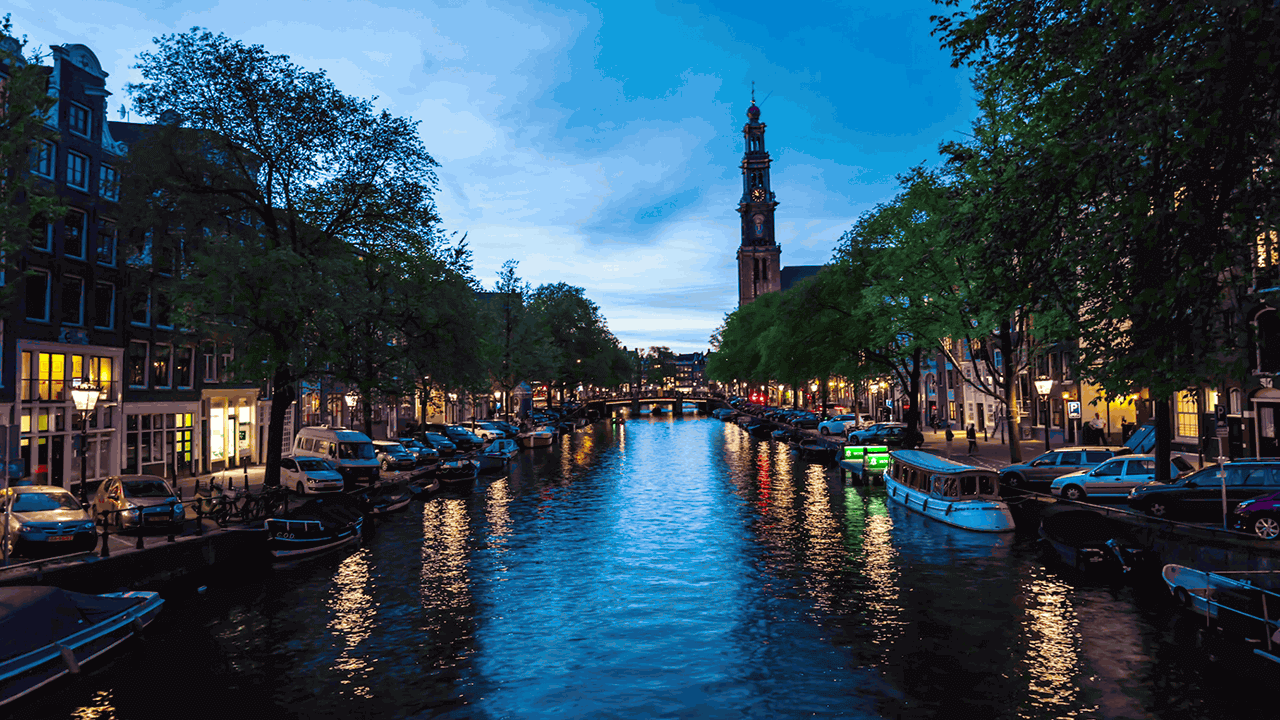
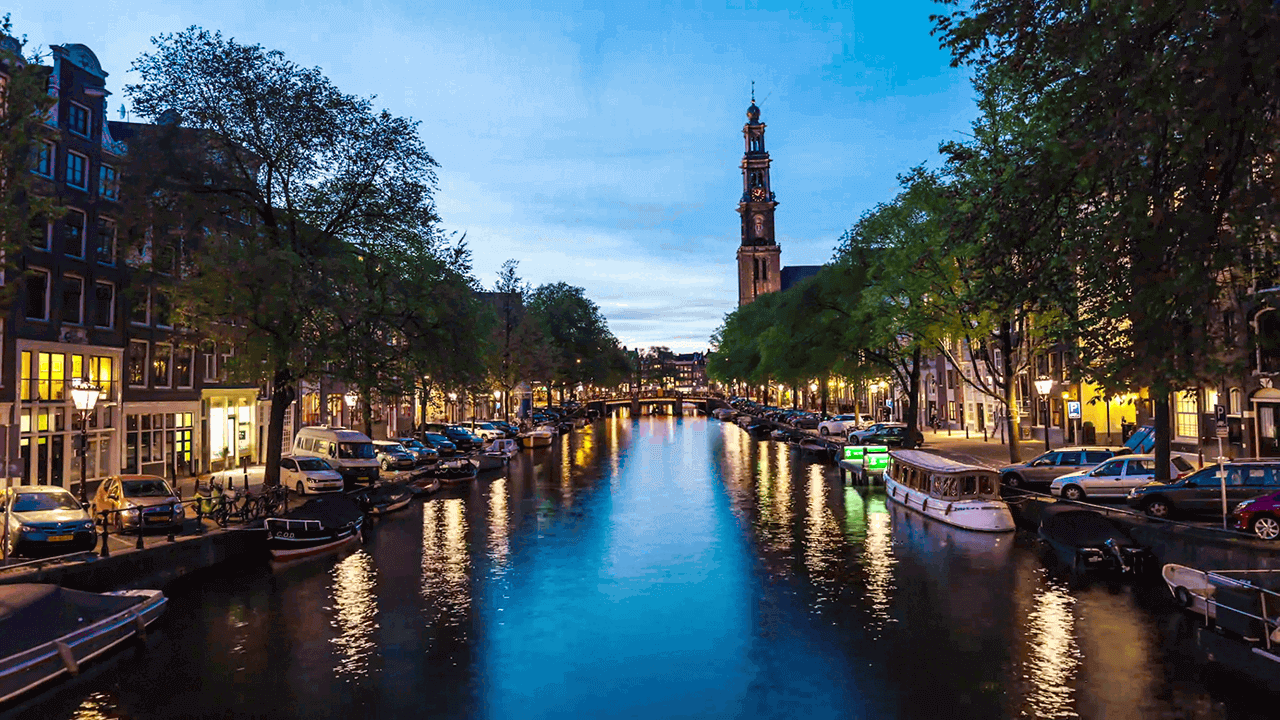
fix rs hero video

diff --git a/src/conferences/rs/sass/components/_hero.sass b/src/conferences/rs/sass/components/_hero.sass
@@ -45,15 +45,23 @@
 				margin-bottom: 25px
 	&__video
 		position: absolute
-		top: 50%
-		left: 50%
-		transform: translate(-50%, -50%)
-		min-width: 100%
-		min-height: 100%
-		width: auto
-		height: auto
+		left: 0
+		top: 0
+		width: 100%
+		height: 100%
+		// top: 50%
+		// left: 50%
+		// transform: translate(-50%, -50%)
+		// min-width: 100%
+		// min-height: 100%
+		// width: auto
+		// height: auto
 		z-index: -1
 		filter: brightness(0.7)
+		object-fit: cover
+
+		+sm
+			display: none
 
 	&__bg
 		position: absolute
@@ -65,8 +73,9 @@
 		width: auto
 		height: auto
 		z-index: -1
-		// background: url(../img/screens-done-op.svg) center center no-repeat
+		background: url(../img/hero.png) center center no-repeat
 		background-size: cover
+		filter: brightness(0.7)
 
 	&__inner
 		width: 1566px
